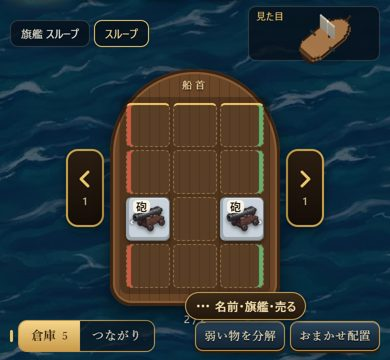
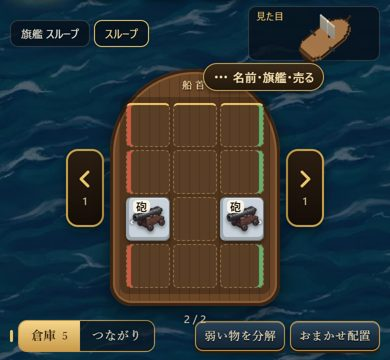
大航海ヘルプ：ボタンの位置の絵を更新

Changed region(s): [[0.5231, 0.1528, 0.8308, 0.275], [0.4615, 0.7944, 0.8, 0.9167], [0.0308, 0.4278, 0.0615, 0.4583]]

diff --git a/games/shipcraft/help/index.html b/games/shipcraft/help/index.html
@@ -47,7 +47,7 @@ footer{border-top:1px solid var(--line);margin-top:40px;padding:24px 0;color:var
 <section class="q" id="ship"><h2><small>FLEET</small>船を売る・船の名前を変える・旗艦を替える</h2>
 <ol><li>港の<b>「艦隊」</b>タブを開きます。</li>
 <li>船のマスの左右の矢印で、操作したい船を選びます。</li>
-<li>船の右下の<b>「… 名前・旗艦・売る」</b>を押します。</li>
+<li>船の右上の<b>「… 名前・旗艦・売る」</b>を押します。</li>
 <li>「名前を変える」「旗艦にする」「売る」から選びます。売る時は、確認でもう一度押すと売れます。積んでいた部品は倉庫に戻ります。</li></ol>
 <img src="h_fleet.jpg" alt="艦隊の画面の「名前・旗艦・売る」ボタン" loading="lazy"><img src="h_menu.jpg" alt="船の操作の画面" loading="lazy">
 <p class="note">船が1隻だけの時は売れません。旗艦は先頭で戦い、海戦で舵を切れる船です。</p></section>
